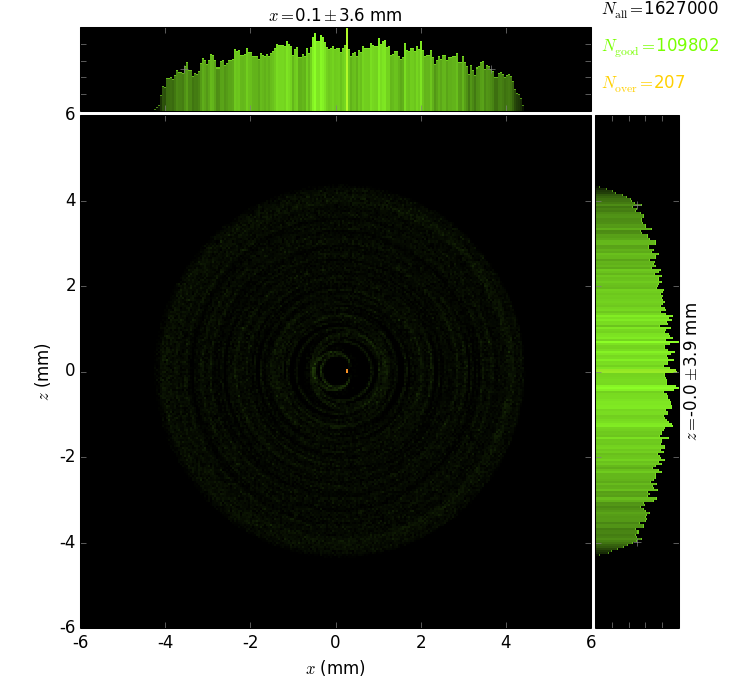
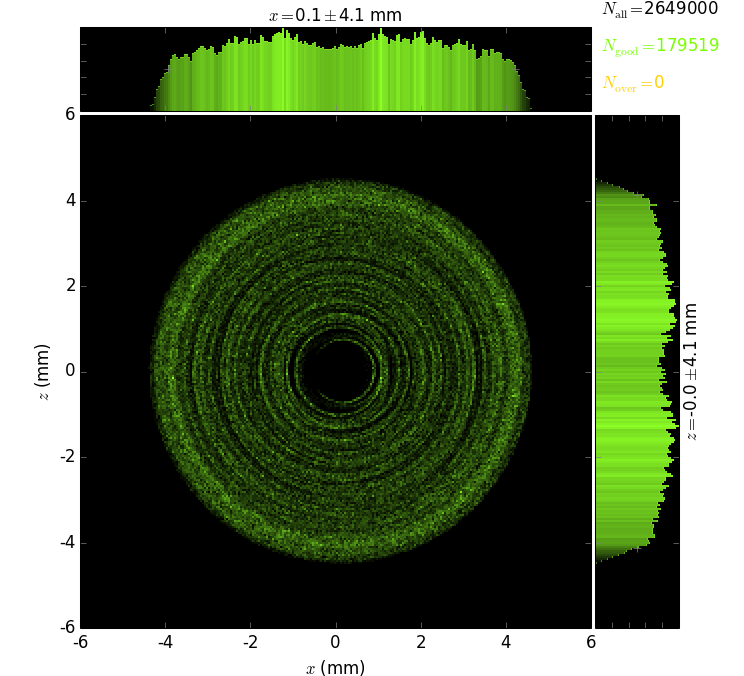
Connical, little bigger tilt

diff --git a/StraightCapillary.py b/StraightCapillary.py
@@ -47,7 +47,7 @@ class StraightCapillary(roe.OE):
         s0 = self.f - self.rSample * np.cos(self.entranceAlpha)
         self.a0 = -np.tan(self.entranceAlpha) / 2 / s0
         self.b0 = 0.5*self.rSample * np.sin(self.entranceAlpha) - self.a0 * s0**2
-        self.b0 = 0.1
+        self.b0 = 0.12
         self.s0 = s0
         self.ar = (self.r0out-self.r0in) / s0
         self.br = self.r0in
